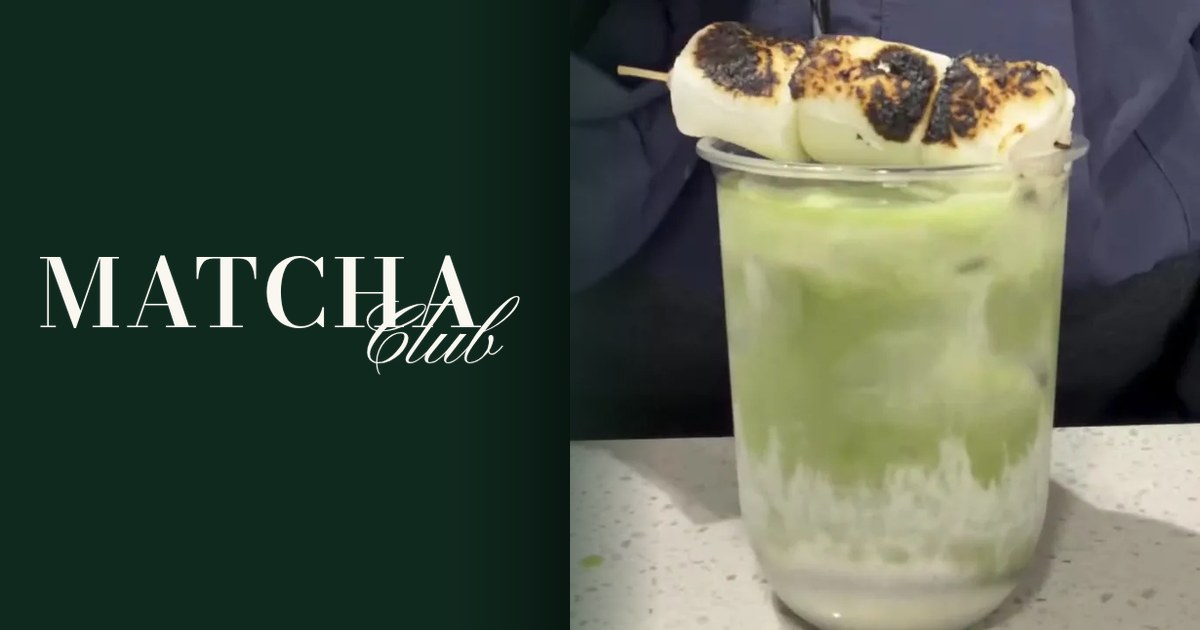
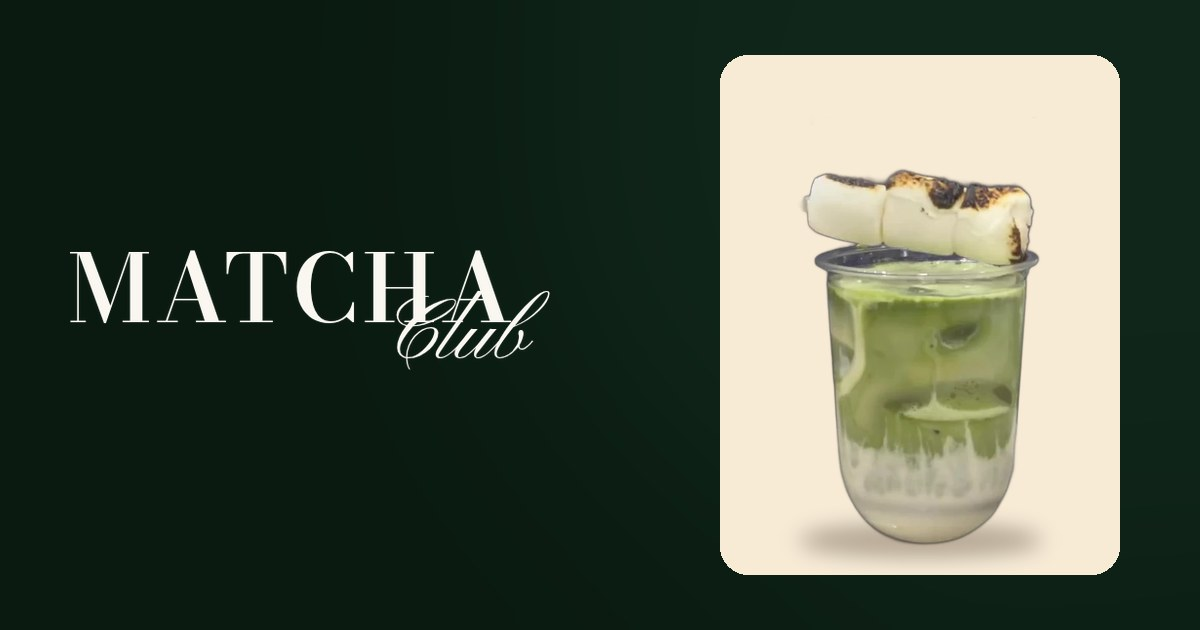
Matcha Club: restyle in the Big Wiss Matcha look
Dark matcha green page with their cups cut out of their own photos onto
cream and pink cards, tan pill buttons, a two-row marquee and a pop-up
bento. QA'd at 390/360/768/1366/1440/1920 plus a zoom check. Logs
updated, and Al Karam rows added.

Claude-Session: https://claude.ai/code/session_01LLUpzQsT57yuc9pnTAzjB7

diff --git a/matchaclub/index.html b/matchaclub/index.html
@@ -9,143 +9,189 @@
 <meta property="og:title" content="Matcha Club · Upside down matcha in Houston">
 <meta property="og:description" content="Creamy base, ice, matcha on top, a torched marshmallow across the rim. Follow @matchaclub.us for the next pop-up.">
 <meta property="og:image" content="media/og.jpg">
-<meta name="theme-color" content="#10291f">
+<meta name="theme-color" content="#0a1a11">
 <link rel="icon" href="media/icon.png">
 <link rel="preconnect" href="https://fonts.googleapis.com"><link rel="preconnect" href="https://fonts.gstatic.com" crossorigin>
-<link href="https://fonts.googleapis.com/css2?family=Bodoni+Moda:opsz,wght@6..96,500..600&family=Manrope:wght@400;500;600;700&family=Pinyon+Script&display=swap" rel="stylesheet">
-<link rel="preload" as="image" href="media/hero.webp">
+<link href="https://fonts.googleapis.com/css2?family=Bodoni+Moda:opsz,wght@6..96,600&family=Cormorant+Garamond:ital,wght@1,600;1,700&family=Pinyon+Script&family=Plus+Jakarta+Sans:wght@400;500;600;700;800&display=swap" rel="stylesheet">
+<link rel="preload" as="image" href="media/cup-signature.webp">
 <style>
 /* Matcha Club · MOBILE FIRST (base = 390px phone; min-width queries add tablet + desktop).
-   Their colours: the deep green of their logo, matcha green, ivory, the blush of the pink bowl and tag ribbons.
-   Their wordmark set in type (Bodoni MATCHA + a script Club, like the logo). Photo-led from their own reel and posts:
-   the upside down matcha hero, the five layers in the order they build it, pt. 2, a pop-up, brand details.
-   Light motion only: the hero rises in, sections fade up. */
+   In the Big Wiss style the user asked for: a deep green page, heavy sans headlines with an italic serif accent in
+   mint, tan pill buttons, their real cups cut out of their own reel and set on cream and pink cards with a soft
+   contact shadow, a slow marquee, a "line-up" of drinks, a "find us" bento, a sticky bar on phones. Their own
+   wordmark (Bodoni MATCHA + script Club) in the nav. Light motion: the hero rises in, sections fade up, cups lift on hover. */
 :root{
-  --green:#10291f; --green2:#1b3b2d; --matcha:#8fae4f; --ivory:#faf7f0; --cream:#f2ede2; --blush:#f3d7d8;
-  --ink:#16201a; --muted:#5f6a61; --line:rgba(22,32,26,.12);
-  --h:'Bodoni Moda', Georgia, serif; --f:'Manrope', system-ui, -apple-system, sans-serif; --s:'Pinyon Script', cursive;
+  --bg:#0a1a11; --bg2:#12301f; --bg3:#1b3b2a; --line:rgba(245,243,240,.12);
+  --ivory:#f5f3f0; --soft:#b9c7bd; --mint:#7dcea0; --mint2:#9ee0b8; --tan:#c4a57b; --tan2:#d4b78f; --ink:#1a1a1a;
+  --cream:#f7ebd6; --pink:#fad1da; --peach:#edd5bd;
+  --f:'Plus Jakarta Sans', system-ui, -apple-system, sans-serif; --a:'Cormorant Garamond', Georgia, serif;
   --pad:18px; --sec:36px; --nav:56px;
   --ease:cubic-bezier(.22,.61,.36,1); --out:cubic-bezier(.16,1,.3,1);
 }
 *{box-sizing:border-box;margin:0}
-html{-webkit-text-size-adjust:100%;overflow-x:clip;background:var(--ivory);scroll-padding-top:calc(var(--nav) + 12px)}
-body{background:var(--ivory);color:var(--ink);font:400 .9375rem/1.6 var(--f);overflow-x:clip;-webkit-font-smoothing:antialiased}
+html{-webkit-text-size-adjust:100%;overflow-x:clip;background:var(--bg);scroll-padding-top:calc(var(--nav) + 12px)}
+body{background:var(--bg);color:var(--ivory);font:400 .9375rem/1.6 var(--f);overflow-x:clip;-webkit-font-smoothing:antialiased}
 img{display:block;max-width:100%;height:auto}
 a{color:inherit}
-:focus-visible{outline:2px solid var(--matcha);outline-offset:3px;border-radius:8px}
+:focus-visible{outline:2px solid var(--mint);outline-offset:3px;border-radius:8px}
 .wrap{max-width:1140px;margin:0 auto;padding:0 var(--pad)}
-h1,h2{font-family:var(--h);font-weight:500;letter-spacing:-.01em;line-height:1.08}
+h1,h2{font-family:var(--f);font-weight:800;letter-spacing:-.035em;line-height:1.02}
 h1{font-size:1.875rem}
 h2{font-size:1.5rem}
+h1 em,h2 em{font:italic 700 1.12em/1 var(--a);letter-spacing:-.01em;color:var(--mint)}
 h3{font:700 1rem/1.3 var(--f)}
-.sub{color:var(--muted)}
-.btn{display:inline-flex;align-items:center;justify-content:center;gap:8px;min-height:44px;padding:0 18px;border-radius:999px;background:var(--green);color:var(--ivory);text-decoration:none;font:700 .875rem/1 var(--f);border:0;white-space:nowrap;transition:transform .15s,background .2s}
+.sub{color:var(--soft)}
+.btn{display:inline-flex;align-items:center;justify-content:center;gap:8px;min-height:44px;padding:0 18px;border-radius:999px;background:var(--tan);color:var(--ink);text-decoration:none;font:800 .875rem/1 var(--f);letter-spacing:.04em;text-transform:uppercase;border:0;white-space:nowrap;transition:transform .15s,background .2s}
 .btn:active{transform:scale(.97)}
-.btn.line{background:transparent;color:var(--ink);box-shadow:inset 0 0 0 1.5px currentColor}
-.btn.ivory{background:var(--ivory);color:var(--green)}
-.btn.iline{background:transparent;color:var(--ivory);box-shadow:inset 0 0 0 1.5px rgba(250,247,240,.7)}
+.btn.ghost{background:transparent;color:var(--ivory);box-shadow:inset 0 0 0 1.5px rgba(245,243,240,.35)}
 .btn svg{width:16px;height:16px;flex:0 0 auto}
-@media (hover:hover) and (pointer:fine){ .btn:hover{background:var(--green2)} .btn.ivory:hover{background:#fff} .btn.line:hover,.btn.iline:hover{background:rgba(127,127,127,.12)} }
+@media (hover:hover) and (pointer:fine){ .btn:hover{background:var(--tan2)} .btn.ghost:hover{background:rgba(245,243,240,.08)} }
 .row{display:flex;flex-wrap:wrap;gap:8px}
-
-/* the wordmark: MATCHA in Bodoni, Club in script tucked under the right side, like their logo */
-.wm{display:inline-block;position:relative;text-decoration:none;line-height:1;padding-bottom:.42em}
-.wm b{display:block;font:600 1em/1 var(--h);font-variation-settings:'opsz' 14;letter-spacing:.04em}
-.wm i{position:absolute;right:-.12em;bottom:-.08em;font:400 .92em/1 var(--s);font-style:normal}
+.wm{display:inline-block;position:relative;text-decoration:none;line-height:1;padding-bottom:.62em;color:var(--ivory)}
+.wm b{display:block;font:600 1em/1 'Bodoni Moda', serif;font-variation-settings:'opsz' 14;letter-spacing:.04em}
+.wm i{position:absolute;right:-.34em;bottom:-.14em;font:400 .86em/1 'Pinyon Script', cursive;font-style:normal}
 
 /* ---------- nav */
-.nav{position:fixed;top:0;left:0;right:0;z-index:40;height:var(--nav);background:rgba(250,247,240,.96);box-shadow:0 1px 0 var(--line)}
+.nav{position:fixed;top:0;left:0;right:0;z-index:40;height:var(--nav);background:rgba(10,26,17,.92);box-shadow:0 1px 0 var(--line)}
 .nav .wrap{display:flex;align-items:center;justify-content:space-between;height:100%}
-.nav .wm{font-size:1.25rem;color:var(--green)}
+.nav .wm{font-size:1.25rem}
 .nav .links{display:none}
-.nav .btn{min-height:36px;padding:0 14px;font-size:.8125rem}
+.nav .btn{min-height:36px;padding:0 14px;font-size:.75rem}
 
 /* ---------- hero */
-.hero{padding:calc(var(--nav) + 16px) 0 var(--sec);background:var(--green);color:var(--ivory)}
-.hero .wrap{display:grid;gap:18px}
-.hero figure{border-radius:22px;overflow:hidden;aspect-ratio:1;max-height:46svh;background:var(--green2)}
-.hero figure img{width:100%;height:100%;object-fit:cover}
+.hero{padding:calc(var(--nav) + 22px) 0 var(--sec);background:radial-gradient(120% 80% at 80% 10%,var(--bg3),var(--bg2) 45%,var(--bg) 100%)}
+.hero .wrap{display:grid;gap:20px}
 .chips{display:flex;flex-wrap:wrap;gap:6px;margin-bottom:12px}
-.chip{display:inline-flex;align-items:center;gap:7px;padding:6px 11px;border-radius:999px;background:rgba(250,247,240,.1);box-shadow:inset 0 0 0 1px rgba(250,247,240,.22);font:600 .75rem/1 var(--f)}
-.chip i{width:7px;height:7px;border-radius:50%;background:var(--matcha)}
-.hero h1 em{font-style:italic;color:#c9de95}
-.hero p{margin-top:10px;color:rgba(250,247,240,.85);max-width:40ch}
-.hero .row{margin-top:16px}
+.chip{display:inline-flex;align-items:center;gap:7px;padding:6px 11px;border-radius:999px;background:rgba(245,243,240,.07);box-shadow:inset 0 0 0 1px var(--line);font:600 .75rem/1 var(--f)}
+.chip i{width:7px;height:7px;border-radius:50%;background:var(--mint);box-shadow:0 0 0 3px rgba(125,206,160,.2)}
+.hero p{margin-top:12px;color:var(--soft);max-width:40ch}
+.hero .row{margin-top:18px}
+.cupcard{position:relative;border-radius:22px;background:linear-gradient(180deg,#fbf3e4,var(--cream));color:var(--ink);overflow:hidden;display:flex;align-items:flex-end;justify-content:center;padding:64px 0 28px}
+.cupcard .cup{height:min(32svh,270px)}
+.cupcard .lab{position:absolute;left:12px;top:12px;padding:8px 12px;border-radius:12px;background:rgba(255,255,255,.85);box-shadow:0 2px 10px rgba(0,0,0,.06)}
+.cupcard .lab b{display:block;font:italic 700 1.25rem/1 var(--a)}
+.cupcard .lab span{display:block;margin-top:3px;font-size:.75rem;color:#6b5f52}
+.cupcard .tag{position:absolute;right:12px;top:12px;display:inline-flex;align-items:center;gap:6px;padding:6px 10px;border-radius:999px;background:var(--bg2);color:var(--ivory);font:800 .75rem/1 var(--f);letter-spacing:.06em;text-transform:uppercase}
+.cupcard .tag i{width:6px;height:6px;border-radius:50%;background:var(--mint)}
+.cup{position:relative;display:block;text-align:center}
+.cup img{position:relative;z-index:1;display:block;margin:0 auto;height:100%;width:auto;max-width:none;object-fit:contain;filter:drop-shadow(0 18px 18px rgba(60,40,20,.18));transition:transform .6s var(--out)}
+.cup::after{content:'';position:absolute;left:50%;bottom:-6px;width:70%;height:18px;transform:translateX(-50%);border-radius:50%;background:radial-gradient(closest-side,rgba(60,40,20,.32),transparent)}
 .up{animation:up .8s var(--out) both}
-.up.d1{animation-delay:.08s}.up.d2{animation-delay:.16s}
-@keyframes up{from{opacity:0;transform:translateY(12px)}}
+.up.d1{animation-delay:.08s}.up.d2{animation-delay:.16s}.up.d3{animation-delay:.24s}
+@keyframes up{from{opacity:0;transform:translateY(14px)}}
+
+/* ---------- marquee */
+.marq{overflow:hidden;padding:16px 0;border-top:1px solid var(--line);border-bottom:1px solid var(--line);background:var(--bg)}
+.marq .tr{display:flex;width:max-content;animation:marq 38s linear infinite}
+.marq .tr.slow{animation-duration:52s;animation-direction:reverse;margin-top:6px}
+.marq span{padding-right:22px;white-space:nowrap;font:800 1.375rem/1.1 var(--f);letter-spacing:-.03em}
+.marq .tr.slow span{font:italic 700 1.375rem/1.1 var(--a);color:var(--tan);letter-spacing:0}
+.marq span i{font-style:normal;color:var(--mint);margin-left:22px}
+@keyframes marq{to{transform:translateX(-50%)}}
 
 /* ---------- sections */
 .sec{padding:var(--sec) 0}
-.head{margin-bottom:14px}
-.head .sub{margin-top:6px}
-.rail{display:flex;gap:10px;overflow-x:auto;scroll-snap-type:x mandatory;margin:0 calc(var(--pad) * -1);padding:0 var(--pad) 4px;scrollbar-width:none;list-style:none;counter-reset:st}
+.head{display:flex;flex-wrap:wrap;align-items:end;justify-content:space-between;gap:10px;margin-bottom:14px}
+.head .sub{margin-top:6px;max-width:44ch}
+.rail{display:flex;gap:10px;overflow-x:auto;scroll-snap-type:x mandatory;margin:0 calc(var(--pad) * -1);padding:0 var(--pad) 4px;scrollbar-width:none;list-style:none}
 .rail::-webkit-scrollbar{display:none}
-.step{flex:0 0 70%;scroll-snap-align:start;border-radius:18px;overflow:hidden;background:#fff;box-shadow:inset 0 0 0 1px var(--line);counter-increment:st}
-.step .ph{position:relative;aspect-ratio:1;overflow:hidden;background:var(--cream)}
+.steps{counter-reset:st}
+.step{flex:0 0 70%;scroll-snap-align:start;border-radius:18px;overflow:hidden;background:var(--cream);color:var(--ink);counter-increment:st}
+.step .ph{position:relative;aspect-ratio:1;overflow:hidden;background:#e9dcc4}
 .step .ph img{width:100%;height:100%;object-fit:cover}
-.step .ph::before{content:counter(st);position:absolute;left:10px;top:10px;display:grid;place-items:center;width:28px;height:28px;border-radius:50%;background:var(--green);color:var(--ivory);font:700 .8125rem/1 var(--f)}
+.step .ph::before{content:counter(st);position:absolute;left:10px;top:10px;z-index:1;display:grid;place-items:center;width:28px;height:28px;border-radius:50%;background:var(--bg2);color:var(--ivory);font:800 .8125rem/1 var(--f)}
 .step .tx{padding:12px 14px 14px}
-.step p{margin-top:2px;color:var(--muted);font-size:.875rem}
+.step h3{font:italic 700 1.25rem/1.1 var(--a)}
+.step p{margin-top:4px;color:#5a5047;font-size:.875rem}
 .dots{display:flex;justify-content:center;gap:6px;margin-top:10px}
-.dots i{width:6px;height:6px;border-radius:50%;background:rgba(22,32,26,.2);transition:background .2s,width .2s}
-.dots i.on{background:var(--green);width:16px;border-radius:3px}
+.dots i{width:6px;height:6px;border-radius:50%;background:rgba(245,243,240,.22);transition:background .2s,width .2s}
+.dots i.on{background:var(--tan);width:16px;border-radius:3px}
 
-.split{display:grid;gap:16px}
-.split figure{border-radius:20px;overflow:hidden;aspect-ratio:1;background:var(--cream)}
-.split figure.wide{aspect-ratio:4/3}
-.split figure img{width:100%;height:100%;object-fit:cover}
-.split .tx p{margin-top:8px;color:var(--muted)}
-.split .row{margin-top:14px}
-.blush{background:var(--blush)}
-.blush .tx p{color:#5d4a4c}
+.lineup .card{flex:0 0 74%;scroll-snap-align:start;position:relative;border-radius:22px;overflow:hidden;color:var(--ink);display:flex;flex-direction:column;min-height:420px}
+.card.cream{background:linear-gradient(180deg,#fbf3e4,var(--cream))}
+.card.pink{background:linear-gradient(180deg,#fde4ea,var(--pink))}
+.card.tan{background:var(--tan);justify-content:space-between;padding:18px}
+.card .pill{position:absolute;left:12px;top:12px;z-index:2;display:inline-flex;align-items:center;gap:6px;padding:6px 10px;border-radius:999px;background:var(--bg2);color:var(--ivory);font:800 .75rem/1 var(--f);letter-spacing:.06em;text-transform:uppercase}
+.card .stage{flex:1;display:flex;align-items:flex-end;justify-content:center;padding:48px 0 8px;min-height:250px}
+.card .stage .cup{height:220px}
+.card .tx{padding:12px 16px 16px}
+.card .tx b{display:block;font:italic 700 1.5rem/1.05 var(--a)}
+.card .tx p{margin-top:4px;font-size:.8125rem;color:#5a5047}
+.card .tags{display:flex;flex-wrap:wrap;gap:5px;margin-top:10px}
+.card .tags span{padding:5px 9px;border-radius:999px;background:rgba(255,255,255,.7);font:700 .75rem/1 var(--f)}
+.card.tan b{font:italic 700 1.75rem/1.05 var(--a)}
+.card.tan p{margin-top:6px;font-size:.875rem}
+.card.tan .btn{background:var(--ink);color:var(--ivory);align-self:flex-start}
+@media (hover:hover) and (pointer:fine){ .card:hover .cup img{transform:translateY(-6px) rotate(-1.5deg)} }
+
+.bento{display:grid;gap:10px}
+.b{border-radius:22px;overflow:hidden;position:relative}
+.b.green{background:var(--bg2);box-shadow:inset 0 0 0 1px var(--line);padding:18px}
+.b.green small{display:inline-flex;align-items:center;gap:6px;font:800 .75rem/1 var(--f);letter-spacing:.1em;text-transform:uppercase;color:var(--mint)}
+.b.green h3{margin-top:10px;font:800 1.5rem/1.05 var(--f);letter-spacing:-.03em}
+.b.green p{margin-top:6px;color:var(--soft);font-size:.875rem}
+.b.green .minis{display:flex;gap:8px;margin-top:14px}
+.b.green .minis div{position:relative;flex:1;border-radius:12px;aspect-ratio:3/4;overflow:hidden}
+.b.green .minis div img{position:absolute;left:50%;bottom:6%;height:84%;width:auto;max-width:none;transform:translateX(-50%);filter:drop-shadow(0 6px 6px rgba(60,40,20,.2))}
+.b.photo{aspect-ratio:4/3}
+.b.photo img{width:100%;height:100%;object-fit:cover}
+.b.photo::after{content:'';position:absolute;inset:0;background:linear-gradient(180deg,transparent 45%,rgba(10,26,17,.85))}
+.b.photo .cap{position:absolute;left:16px;right:16px;bottom:14px;z-index:1}
+.b.photo .cap small{font:800 .75rem/1 var(--f);letter-spacing:.1em;text-transform:uppercase;color:var(--mint2)}
+.b.photo .cap b{display:block;margin-top:6px;font:800 1.375rem/1.05 var(--f);letter-spacing:-.03em}
+.b.ig{background:var(--tan);color:var(--ink);padding:18px;display:flex;flex-direction:column;justify-content:space-between;gap:16px;text-decoration:none}
+.b.ig small{font:800 .75rem/1 var(--f);letter-spacing:.1em;text-transform:uppercase}
+.b.ig b{font:800 1.25rem/1.1 var(--f);letter-spacing:-.02em}
+.b.ig span{font-size:.8125rem}
 
 .pair{display:grid;grid-template-columns:1fr 1fr;gap:8px}
-.pair figure{position:relative;border-radius:16px;overflow:hidden;aspect-ratio:1;background:var(--cream)}
+.pair figure{position:relative;border-radius:18px;overflow:hidden;aspect-ratio:1;background:var(--bg2)}
 .pair img{width:100%;height:100%;object-fit:cover}
-.pair figcaption{position:absolute;left:8px;bottom:8px;padding:5px 9px;border-radius:999px;background:rgba(250,247,240,.94);font:600 .75rem/1 var(--f)}
+.pair figcaption{position:absolute;left:8px;bottom:8px;padding:5px 9px;border-radius:999px;background:rgba(245,243,240,.92);color:var(--ink);font:700 .75rem/1 var(--f)}
 
-.close{padding:48px 0 44px;text-align:center;background:var(--green);color:var(--ivory)}
+.close{padding:48px 0 44px;text-align:center;background:radial-gradient(90% 90% at 50% 0%,var(--bg3),var(--bg))}
 .close .wm{font-size:2.5rem;margin-bottom:14px}
-.close h2{font-size:1.625rem}
-.close p{margin:8px auto 0;max-width:34ch;color:rgba(250,247,240,.82)}
+.close p{margin:8px auto 0;max-width:34ch;color:var(--soft)}
 .close .row{justify-content:center;margin-top:16px}
-footer.foot{padding:22px 0 calc(96px + env(safe-area-inset-bottom));background:#0a1c15;color:#a9b5ac;font-size:.8125rem}
-footer.foot b{color:var(--ivory);font-weight:600}
+footer.foot{padding:22px 0 calc(96px + env(safe-area-inset-bottom));background:#06120b;color:#93a398;font-size:.8125rem;border-top:1px solid var(--line)}
+footer.foot b{color:var(--ivory);font-weight:700}
 footer.foot a{text-decoration:none}
 footer.foot p+p{margin-top:4px}
 .rv{opacity:0;transform:translateY(14px);transition:opacity .7s var(--ease),transform .8s var(--out)}
 .rv.on{opacity:1;transform:none}
-.dock{position:fixed;left:10px;right:10px;bottom:calc(10px + env(safe-area-inset-bottom));z-index:45;display:grid;padding:6px;border-radius:18px;background:rgba(250,247,240,.97);box-shadow:0 12px 30px rgba(16,41,31,.2);border:1px solid var(--line);transform:translateY(150%);transition:transform .35s var(--out)}
+.dock{position:fixed;left:10px;right:10px;bottom:calc(10px + env(safe-area-inset-bottom));z-index:45;display:grid;grid-template-columns:1fr 1.25fr;gap:6px;padding:6px;border-radius:999px;background:rgba(18,48,31,.96);box-shadow:0 12px 30px rgba(0,0,0,.35);border:1px solid var(--line);transform:translateY(150%);transition:transform .35s var(--out)}
 .dock.on{transform:none}
-.dock .btn{min-height:42px;font-size:.8125rem}
+.dock .btn{min-height:42px;padding:0 10px;font-size:.8125rem}
 
 @media (min-width:760px){
-  :root{--pad:32px;--sec:64px;--nav:64px}
+  :root{--pad:32px;--sec:72px;--nav:64px}
   body{font-size:1rem}
-  h1{font-size:3rem}
-  h2{font-size:2.25rem}
+  h1{font-size:3.5rem}
+  h2{font-size:2.5rem}
   .nav .wm{font-size:1.5rem}
-  .nav .links{display:flex;gap:26px;font:600 .875rem/1 var(--f);color:var(--muted)}
-  .nav .links a{text-decoration:none}.nav .links a:hover{color:var(--ink)}
-  .hero{padding-top:calc(var(--nav) + 40px)}
+  .nav .links{display:flex;gap:26px;font:800 .6875rem/1 var(--f);letter-spacing:.12em;text-transform:uppercase;color:var(--soft)}
+  .nav .links a{text-decoration:none}.nav .links a:hover{color:var(--ivory)}
+  .hero{padding-top:calc(var(--nav) + 44px)}
   .hero p{font-size:1.0625rem}
-  .rail{display:grid;grid-template-columns:repeat(5,1fr);overflow:visible;margin:0;padding:0}
-  .step{flex:none}
+  .marq span,.marq .tr.slow span{font-size:2rem}
+  .rail{display:grid;overflow:visible;margin:0;padding:0}
+  .steps{grid-template-columns:repeat(5,1fr)}
+  .step,.lineup .card{flex:none}
+  .lineup{grid-template-columns:repeat(3,1fr)}
   .dots{display:none}
-  .split{grid-template-columns:minmax(0,420px) 1fr;gap:48px;align-items:center}
-  .split.flip figure{order:2}
-  .pair{gap:16px}
+  .bento{grid-template-columns:1.1fr 1.3fr .8fr;align-items:stretch}
+  .b.photo{aspect-ratio:auto;min-height:300px}
+  .b.green .minis div{aspect-ratio:1}
+  .pair{gap:14px}
   .pair figure{aspect-ratio:4/3}
-  .close{padding:72px 0}
+  .close{padding:80px 0}
   .close .wm{font-size:3.5rem}
-  .close h2{font-size:2.5rem}
   .dock{display:none}
   footer.foot{padding-bottom:28px}
 }
 @media (min-width:1100px){
-  .hero .wrap{grid-template-columns:1fr minmax(0,440px);gap:56px;align-items:center}
-  .hero figure{order:2;max-height:none}
+  .hero .wrap{grid-template-columns:1fr minmax(0,420px);gap:64px;align-items:center}
+  .cupcard .cup{height:380px}
 }
 @media (prefers-reduced-motion:reduce){
   *,*::before,*::after{animation:none!important;transition:none!important}
@@ -162,28 +208,37 @@ footer.foot p+p{margin-top:4px}
 <header class="nav">
   <div class="wrap">
     <a class="wm" href="#top" aria-label="Matcha Club, back to the top"><b>MATCHA</b><i>Club</i></a>
-    <nav class="links" aria-label="Sections"><a href="#how">How it's made</a><a href="#pt2">Pt. 2</a><a href="#popups">Pop-ups</a></nav>
-    <a class="btn" data-ig href="#popups"><svg aria-hidden="true"><use href="#i-ig"/></svg>Follow</a>
+    <nav class="links" aria-label="Sections"><a href="#how">How it's made</a><a href="#lineup">Line-up</a><a href="#find">Find us</a></nav>
+    <a class="btn" data-ig href="#find"><svg aria-hidden="true"><use href="#i-ig"/></svg>Follow</a>
   </div>
 </header>
 
 <main id="top">
   <section class="hero" id="hero">
     <div class="wrap">
-      <figure class="up"><img src="media/hero.webp" alt="An upside down matcha: a creamy base, matcha over ice and a skewer of torched marshmallows across the rim" width="720" height="720" fetchpriority="high"></figure>
       <div>
-        <div class="chips up d1"><span class="chip"><i></i>Houston, TX</span><span class="chip">@matchaclub.us</span></div>
+        <div class="chips up"><span class="chip"><i></i>Houston, TX</span><span class="chip">@matchaclub.us</span></div>
         <h1 class="up d1">Have you ever had an <em>upside down</em> matcha?</h1>
         <p class="up d2">A creamy base on the bottom, matcha poured over the ice, milk on top and a torched marshmallow across the rim.</p>
-        <div class="row up d2" id="heroCta"><a class="btn ivory" data-ig href="#popups"><svg aria-hidden="true"><use href="#i-ig"/></svg>Follow @matchaclub.us</a><a class="btn iline" href="#how">How it's made</a></div>
+        <div class="row up d2" id="heroCta"><a class="btn" data-ig href="#find"><svg aria-hidden="true"><use href="#i-ig"/></svg>Follow along</a><a class="btn ghost" href="#how">How it's made</a></div>
+      </div>
+      <div class="cupcard up d3">
+        <div class="lab"><b>Upside down matcha</b><span>The signature</span></div>
+        <span class="tag"><i></i>Houston</span>
+        <div class="cup"><img src="media/cup-signature.webp" alt="Our upside down matcha: a creamy base, layered matcha and milk, and a skewer of torched marshmallows across the rim" width="369" height="640" fetchpriority="high"></div>
       </div>
     </div>
   </section>
 
+  <div class="marq" aria-hidden="true">
+    <div class="tr"><span>Upside down matcha<i>✦</i></span><span>Torched marshmallow<i>✦</i></span><span>Houston pop-ups<i>✦</i></span><span>Upside down matcha<i>✦</i></span><span>Torched marshmallow<i>✦</i></span><span>Houston pop-ups<i>✦</i></span></div>
+    <div class="tr slow"><span>Creamy base<i>✦</i></span><span>Ice<i>✦</i></span><span>Matcha<i>✦</i></span><span>Milk<i>✦</i></span><span>Marshmallow<i>✦</i></span><span>Creamy base<i>✦</i></span><span>Ice<i>✦</i></span><span>Matcha<i>✦</i></span><span>Milk<i>✦</i></span><span>Marshmallow<i>✦</i></span></div>
+  </div>
+
   <section class="sec" id="how">
     <div class="wrap">
-      <div class="head rv"><h2>How it's made</h2><p class="sub">Five layers, in this order.</p></div>
-      <ol class="rail" data-rail>
+      <div class="head rv"><div><h2>How it's <em>made.</em></h2><p class="sub">Every cup gets built in five layers, in this order.</p></div></div>
+      <ol class="rail steps" data-rail>
         <li class="step"><div class="ph"><img src="media/s1.webp" alt="A creamy white base poured into an empty cup" width="600" height="600" loading="lazy"></div><div class="tx"><h3>The creamy base</h3><p>It goes in first, on the bottom.</p></div></li>
         <li class="step"><div class="ph"><img src="media/s2.webp" alt="Ice going into the cup on top of the base" width="600" height="600" loading="lazy"></div><div class="tx"><h3>Ice</h3><p>A full scoop over the base.</p></div></li>
         <li class="step"><div class="ph"><img src="media/s3.webp" alt="Matcha poured from a pink bowl over the ice" width="600" height="600" loading="lazy"></div><div class="tx"><h3>Matcha over the ice</h3><p>Poured straight from the bowl.</p></div></li>
@@ -194,24 +249,26 @@ footer.foot p+p{margin-top:4px}
     </div>
   </section>
 
-  <section class="sec blush" id="pt2">
-    <div class="wrap split">
-      <figure class="rv"><img src="media/pt2.webp" alt="Matcha poured over ice into a cup with a pink base" width="600" height="600" loading="lazy"></figure>
-      <div class="tx rv">
-        <h2>Upside down matcha, pt. 2</h2>
-        <p>Same build, on a pink base. Watch the matcha sink through the ice.</p>
-        <div class="row"><a class="btn" data-ig href="#popups"><svg aria-hidden="true"><use href="#i-ig"/></svg>See it on Instagram</a></div>
+  <section class="sec" id="lineup" style="padding-top:0">
+    <div class="wrap">
+      <div class="head rv"><div><h2>The <em>line-up.</em></h2><p class="sub">Here's what we've been pouring lately.</p></div><a class="btn ghost" data-ig href="#find">See every drop</a></div>
+      <div class="rail lineup" data-rail>
+        <article class="card cream"><span class="pill">Signature</span><div class="stage"><div class="cup"><img src="media/cup-signature.webp" alt="The upside down matcha with torched marshmallows" width="369" height="640" loading="lazy"></div></div><div class="tx"><b>Upside down matcha</b><p>A creamy base, matcha over the ice, milk on top and a torched marshmallow.</p><div class="tags"><span>Matcha</span><span>Marshmallow</span><span>Cream</span></div></div></article>
+        <article class="card pink"><span class="pill">Pt. 2</span><div class="stage"><div class="cup"><img src="media/cup-pt2.webp" alt="Upside down matcha pt. 2 with a pink base and matcha poured over the ice" width="469" height="640" loading="lazy"></div></div><div class="tx"><b>Upside down, pt. 2</b><p>The same build on a pink base.</p><div class="tags"><span>Matcha</span><span>Pink base</span></div></div></article>
+        <a class="card tan" data-ig href="#find"><div><b>There's more on the way.</b><p>New drinks drop on our Instagram first.</p></div><span class="btn"><svg aria-hidden="true"><use href="#i-ig"/></svg>@matchaclub.us</span></a>
       </div>
+      <div class="dots" data-dots></div>
     </div>
   </section>
 
-  <section class="sec" id="popups">
-    <div class="wrap split flip">
-      <figure class="wide rv"><img src="media/popup.webp" alt="A guest holding a matcha at the Matcha Club pop-up bar under a teal umbrella" width="960" height="720" loading="lazy"></figure>
-      <div class="tx rv">
-        <h2>Come find us</h2>
-        <p>We pour at pop-ups around Houston. Follow @matchaclub.us to see where we'll be next.</p>
-        <div class="row"><a class="btn" data-ig href="#popups"><svg aria-hidden="true"><use href="#i-ig"/></svg>Follow along</a></div>
+  <section class="sec" id="find" style="padding-top:0">
+    <div class="wrap">
+      <div class="head rv"><h2>Where to <em>find us</em>.</h2></div>
+      <div class="bento">
+        <div class="b green rv"><small>✦ Pop-ups</small><h3>Around Houston</h3><p>We pour at pop-ups around the city. Dates go up on Instagram first.</p>
+          <div class="minis"><div style="background:var(--cream)"><img src="media/cup-signature.webp" alt="" width="369" height="640" loading="lazy"></div><div style="background:var(--pink)"><img src="media/cup-pt2.webp" alt="" width="469" height="640" loading="lazy"></div></div></div>
+        <div class="b photo rv"><img src="media/popup.webp" alt="A guest holding a matcha at the Matcha Club pop-up bar under a teal umbrella" width="960" height="720" loading="lazy"><div class="cap"><small>The pop-up</small><b>Catch us at the next one.</b></div></div>
+        <a class="b ig rv" data-ig href="#find"><small>Instagram</small><div><b>@matchaclub.us</b><span> ♡ follow for drops</span></div></a>
       </div>
     </div>
   </section>
@@ -228,9 +285,9 @@ footer.foot p+p{margin-top:4px}
   <section class="close" id="closer">
     <div class="wrap">
       <span class="wm rv" aria-hidden="true"><b>MATCHA</b><i>Club</i></span>
-      <h2>See you at the next one.</h2>
+      <h2>See you at the <em>next one.</em></h2>
       <p>New drinks and pop-up dates go up on our Instagram first. Questions? Send us a DM.</p>
-      <div class="row"><a class="btn ivory" data-ig href="#popups"><svg aria-hidden="true"><use href="#i-ig"/></svg>Follow @matchaclub.us</a></div>
+      <div class="row"><a class="btn" data-ig href="#find"><svg aria-hidden="true"><use href="#i-ig"/></svg>Follow @matchaclub.us</a></div>
     </div>
   </section>
 </main>
@@ -238,11 +295,11 @@ footer.foot p+p{margin-top:4px}
 <footer class="foot">
   <div class="wrap">
     <p><b>Matcha Club</b> · Houston, TX</p>
-    <p><a data-ig href="#popups">@matchaclub.us</a> · © <span id="yr"></span></p>
+    <p><a data-ig href="#find">@matchaclub.us</a> · © <span id="yr"></span></p>
   </div>
 </footer>
 
-<div class="dock" id="dock"><a class="btn" data-ig href="#popups"><svg aria-hidden="true"><use href="#i-ig"/></svg>Follow @matchaclub.us</a></div>
+<div class="dock" id="dock"><a class="btn ghost" href="#how">How it's made</a><a class="btn" data-ig href="#find"><svg aria-hidden="true"><use href="#i-ig"/></svg>Follow</a></div>
 
 <script>
 const CONFIG = { instagram: 'https://www.instagram.com/matchaclub.us/' };

diff --git a/.claude/skills/ela-studio/references/novelty.md b/.claude/skills/ela-studio/references/novelty.md
@@ -73,4 +73,5 @@ Declined→concept conversions inherit their original row and are not logged aga
 | Shawarma restaurant, real client (Shawarma Taj Farmington Hills, @shawarmataj2, 2,285 followers; 29564 Orchard Lake Rd, Farmington Hills MI 48334; (248) 702-0045; hours from Apple Maps/Yelp/Aadvantage: Sun–Thu 11–9, Fri–Sat 11–10 (listings disagree on weekends, note says call); halal per Zabihah ('Fully halal'); menu from their reel: chicken & meat shawarma, rotisserie chicken, broasted chicken, falafel, hummus; review 'Chicken shawarma combo may be the best I've ever had' (Google, May 2026); DoorDash store 40519279; tajshawarma.com blocks automated browsers, not used) | Shawarma Taj (shawarmataj.vercel.app, folder shawarmataj) | House anatomy (Apple-style scroll film) | scroll | Dark kitchen, red + gold from their crown-and-cone logo, Anton caps + Figtree | Logo traced from their ad: the red cone fills bottom-up, the gold crown drops on, SHAWARMA TAJ stamps in, the panel turns away in eight vertical strips like the spit | Cycles film: their chicken shawarma cone built from ~1,400 overlapping marinated pieces (glossy roast colours, char spots), honeycomb broiler lighting up behind with orange heat rims, their gold crown on top, turning with the scroll; macro on the crisp pieces, pull back | DoorDash + call; real cone photo grows; Google review line; menu rail | ink #0f0c0a, red #e01f1f, gold #f6b21b, cream #f6ecdc | Anton |
 | Sub + shawarma shop, real client (Peepo's Subs & Shawarma, @peepossubs, "Home of the Afrikano, since 2011"; Canton 41810 Ford Rd (734) 667-4361 Mon–Sat 11–7; Taylor 10890 S. Beech Daly Rd (313) 299-9992 Mon–Sat 11–6:30; Sun closed; Clover ordering PEEPOS-CANTON / PEEPOS-TAYLOR; story, menu and hours from peepossubs.com) | Peepo's (peepossubs.vercel.app, folder peepos) | Photo-led (first build under the "not everything goes through Blender" rule) | scroll | Light paper page in their red #c3202f + charcoal, Bricolage Grotesque 800 + Karla | None (no overlay): hero rises in on load | Their stacked Afrikano sub photo as the hero, Afrikano fries for the seasoning, their story paragraph, food rail with Eggrolls and Sujuk text tiles, open-now for both stores | Clover order links per store, call, map | red #c3202f, charcoal #4a4a4a, paper #f7f3ee | Bricolage Grotesque |
 | (upgrade) Peepo's v2, after the user called v1 "mid" | Peepo's (peepossubs.vercel.app) | Photo-led, bolder: their brand red carries the hero and closer, printed with the logo pattern from their paper liner (white at 13%); the menu sits on the same liner in cream | tap (menu tabs) | Red + liner pattern, white cards, Bricolage Grotesque 800 + Karla | None: hero rises on load | Per-store order buttons in the hero, the sub photo breaking out of the red, an Afrikano section (story, four ways to get it, protein picker, "often imitated, never duplicated" stamp), their full menu from peepossubs.com in six tabs, a 5-photo grid, the family story, both stores with open-now pills | Clover order per store, call, map | red #c3202f, paper #f7f3ee, ink #26221f | Bricolage Grotesque |
-| Matcha pop-up, real client (Matcha Club, @matchaclub.us, Houston TX, ~1.7k followers, 13 posts; signature "upside down matcha": creamy base, ice, matcha poured over, milk, toasted marshmallow syrup + torched marshmallow skewer, from their reel; pt. 2 on a pink base; pop-up bar photo; no address/phone/menu public, matchaclub.us is a parked domain for sale) | Matcha Club (matchaclubhtx.vercel.app, folder matchaclub) | Photo-led, thin brand | swipe (build steps) | Deep green + ivory + blush, Bodoni Moda wordmark with Pinyon Script "Club" like their logo, Manrope | None: hero rises on load | Their caption as the H1 ("Have you ever had an upside down matcha?"), the five layers in build order from their reel, pt. 2, a pop-up photo, their tags, everything points to their Instagram | Instagram follow only | green #10291f, matcha #8fae4f, ivory #faf7f0, blush #f3d7d8 | Bodoni Moda |
+| Matcha pop-up, real client (Matcha Club, @matchaclub.us, Houston TX, ~1.7k followers, 13 posts; signature "upside down matcha": creamy base, ice, matcha poured over, milk, toasted marshmallow syrup + torched marshmallow skewer, from their reel; pt. 2 on a pink base; pop-up bar photo; no address/phone/menu public, matchaclub.us is a parked domain for sale) | Matcha Club (matchaclubhtx.vercel.app, folder matchaclub) | Photo-led in the Big Wiss Matcha style (user asked for "wiss matcha style"): dark matcha green page, their cups cut out of their own photos onto cream and pink cards, tan pill buttons, a two-row product marquee, bento for pop-ups | swipe (build steps, line-up) | Dark green #0a1a11 + mint + tan pills + cream/pink cup cards, Plus Jakarta Sans 800 with Cormorant Garamond italic accents, Bodoni Moda + Pinyon Script wordmark | None: hero rises on load | Their caption as the H1 ("Have you ever had an upside down matcha?"), the five layers in build order from their reel, the line-up as cutout cups, pop-up bento, their tags, everything points to their Instagram | Instagram follow only | bg #0a1a11, mint #7dcea0, tan #c4a57b, cream #f7ebd6, pink #fad1da | Plus Jakarta Sans 800 + Cormorant italic |
+| Lebanese bakery, real client (Al Karam Meat & Bakery, @al.karam.meat.and.bakery, 24302 W Warren St, Dearborn Heights MI 48127, (313) 429-3002; brick oven manakeesh, mashoura, sesame kaak and a meat counter, from their reels) | Al Karam (alkarambakery.vercel.app, folder alkaram) | Photo-led, no film (user: "not everything has to go through blender") | swipe (bakery rail) | Warm oven tones on cream, their Arabic badge (Aref Ruqaa) in the nav | None: hero rises on load | Za'atar manoushe close-up as the hero, the oven shot with the dough going in, a rail of their bakes, steps, a visit card with the map | Call + directions | Oven ember + cream | Bitter 800 + Nunito Sans |

diff --git a/.claude/skills/ela-studio/references/signatures.md b/.claude/skills/ela-studio/references/signatures.md
@@ -155,4 +155,5 @@ Each of these was built and shipped. Use them as proof of the pattern, not as te
 | Barbershop | Golden Era Barbershop & Salon (goldenerabarbershop.vercel.app) | Their GE logo's gold barber pole rendered in Blender Cycles on a reclaimed-wood wall like their shop's: the lamp flickers on, the camera rises to the polished gold crown, slides down the glass while black/gold/white stripes turn with the scroll, then pulls back; intro traces their monogram and a razor line cuts it open | goldenera/render/film.py through bpe (lathe crown/foot, glass tube with dense rings, helix shader with emission backlight, halo area light, reflection cards, per-shot exposure keys), 96 frames 1440×900 webp; phones show the film on top and captions below |
 | Shawarma restaurant | Shawarma Taj (shawarmataj.vercel.app) | Their chicken shawarma cone rendered in Blender Cycles from overlapping marinated pieces in front of a broiler that flickers on, their logo's gold crown on top; the cone turns as you scroll, the camera rises to the crown and glides across the crisp edges; intro builds their crown-and-cone logo and turns the panel away in strips | shawarmataj/render/film.py through bpe (per-piece lumpy icospheres with 'out'/'cid' attributes driving roast colour, honeycomb voronoi tiles, side heat lights, reflection-free gold crown), 96 frames 1280×800 webp; desktop deepens the left fade during the macro beats so captions stay readable |
 | Sub + shawarma shop | Peepo's (peepossubs.vercel.app) | Their own photos lead: the Afrikano sub stacked on fries as the hero, Afrikano fries next to their seasoning story, a live open-now line for both stores and per-store Clover order buttons; their round badge traced to SVG for the nav and closer | Photo-led page, light motion only (hero rises on load, sections fade up). A Cycles film was built (one roll, cut faces textured from their photo) and dropped when the user said not everything needs Blender; the script stays in peepos/render/ |
-| Matcha pop-up | Matcha Club (matchaclubhtx.vercel.app) | Their upside down matcha as the hero and a five-step "how it's made" swipe rail cut from their own build reel (cream, ice, matcha, milk, torched marshmallow), wordmark rebuilt in type to match their logo | Photo-led page, light motion; frames pulled from the reel with ffmpeg and cropped below the caption overlay; no address or menu public, so every CTA goes to their Instagram |
+| Matcha pop-up | Matcha Club (matchaclubhtx.vercel.app) | Big Wiss Matcha style: their upside down matcha cut out of their own reel (rembg isnet-general-use) and set on a cream card like a product shot, pt. 2 on a pink card, a five-step "how it's made" swipe rail cut from the build reel, a two-row marquee, wordmark rebuilt in type to match their logo | Photo-led page, light motion (hero rises, sections fade up, cups lift on hover); frames pulled from the reel with ffmpeg and cropped below the caption overlay; no address or menu public, so every CTA goes to their Instagram |
+| Lebanese bakery | Al Karam Meat & Bakery (alkarambakery.vercel.app) | Their za'atar manoushe close-up from a reel as the hero, then the brick oven with the dough going in, a swipe rail of their bakes and a visit card with the map | Photo-led page, light motion; a Cycles brick-oven film was tried and dropped when the user said not everything needs Blender; frames pulled from their reels with ffmpeg |
